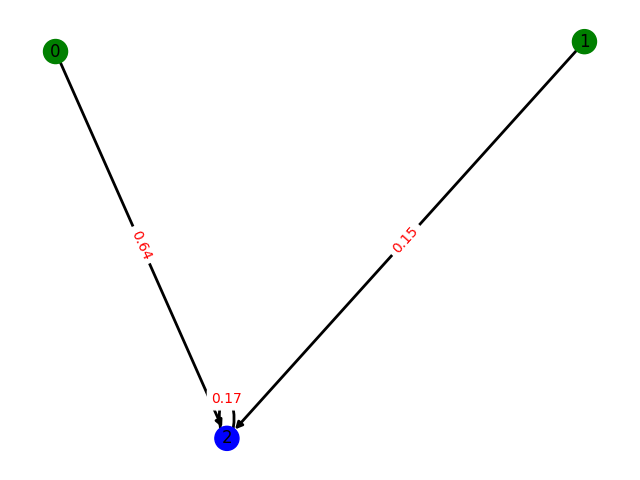
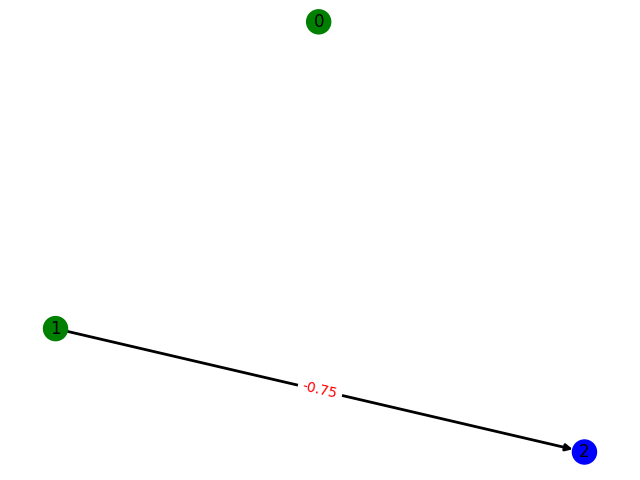
prevent recurrent connections

diff --git a/neat/genome.py b/neat/genome.py
@@ -222,11 +222,13 @@ class Genome:
             input_idx = jax.random.randint(subkey, shape=(), minval=0, maxval=len(genome.nodes))
             subkey, _ = jax.random.split(subkey)
             output_idx = jax.random.randint(subkey, shape=(), minval=0, maxval=len(out_nodes_select))
+            
+            # print("Input node: ", input_idx)
+            # print("Output node: ", out_nodes_select[output_idx])
+            #make sure input and output nodes are not the same
+            if input_idx == out_nodes_select[output_idx]:
+                output_idx = jax.random.randint(subkey, shape=(), minval=0, maxval=len(out_nodes_select))
 
-            while input_idx == output_idx:
-                output_idx = jax.random.randint(
-                    subkey, shape=(), minval=0, maxval=len(out_nodes_select)
-                )
 
             node_input = genome.nodes[input_idx]
             # select nodes of type hidden or output
